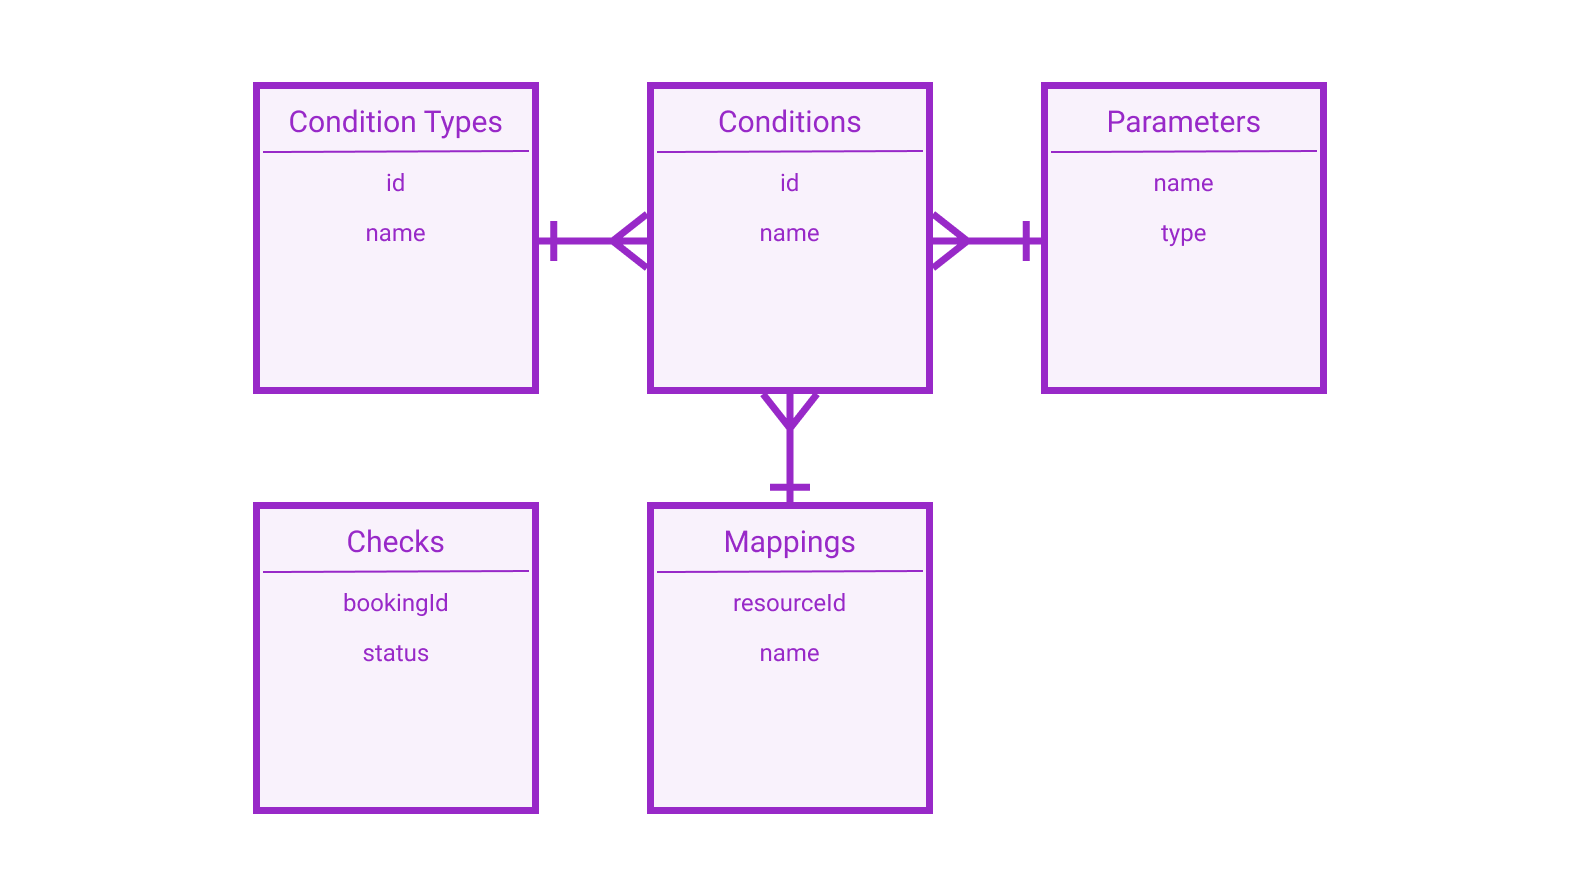
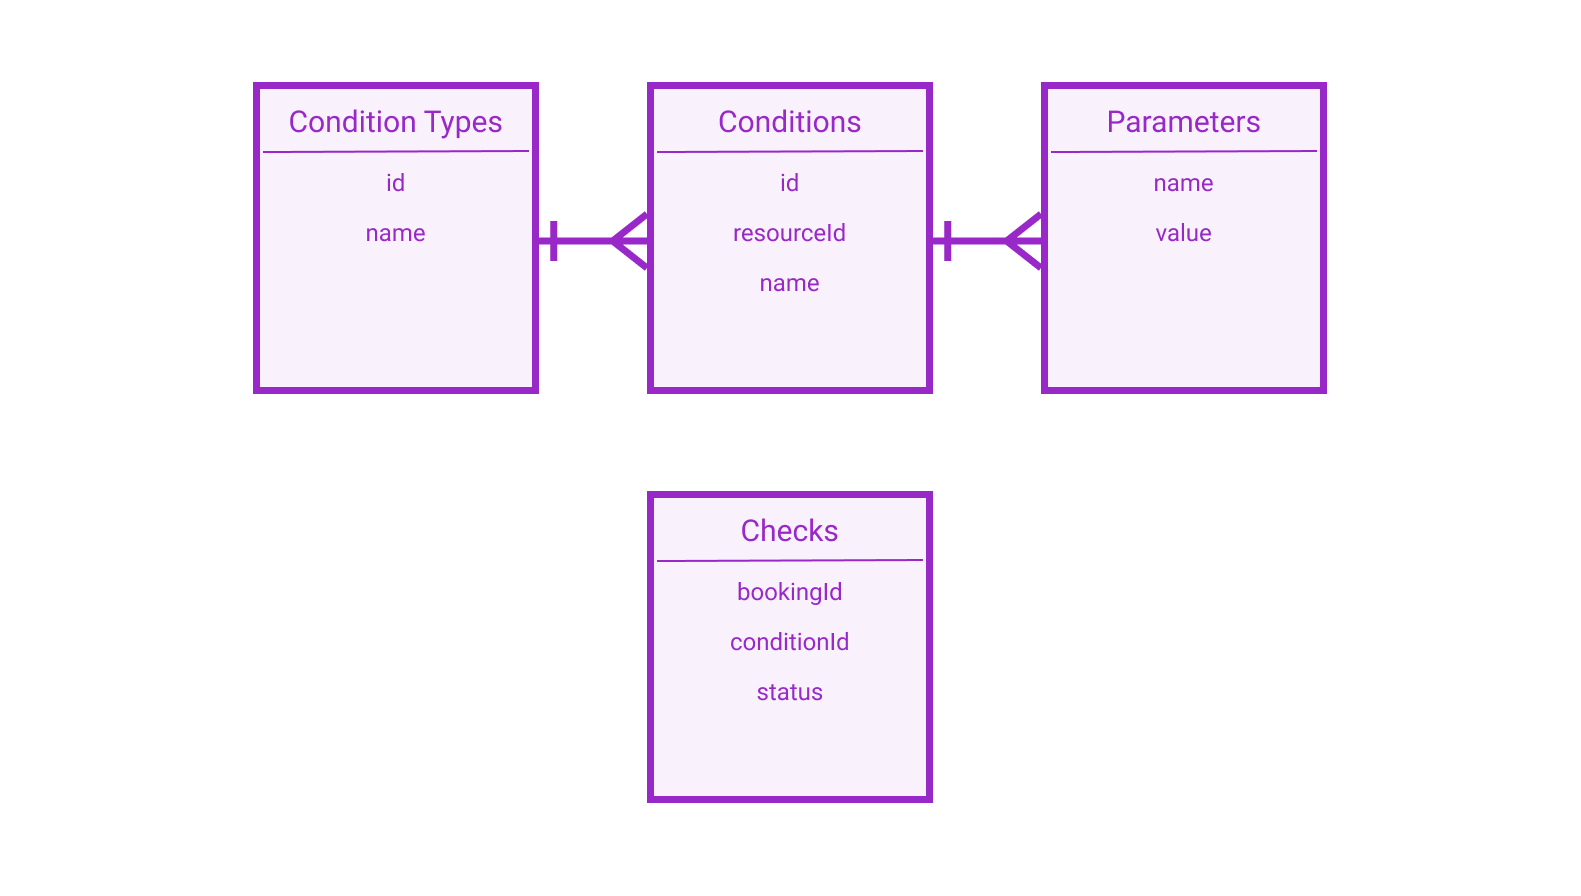
fix wrong data model

diff --git a/docs/datenmodell/README.md b/docs/datenmodell/README.md
@@ -13,8 +13,52 @@ Manche der im Architekturentwurf vorgestellten Komponenten benötigen eine inter
 ## Condition Service
 
 Der Condition Service verfügt über die komplexeste Datenhaltung der Komponenten. Es werden *Conditions* (Bedingungen) verwaltet, die von einem Bedingungstypen sind und über Eingabeparameter verfügen. Eine Bedinung muss einer Ressource zugeordnet werden. Wird aus dem Booking Service eine Buchung für eine Ressource angefragt, wird ein *Check* (Abfrage) im Condition Service erstellt. Diese Abfrage gibt die Parameterwerte an die jeweilen Bedingungen weiter und überprüft den Status. Weitere Informationen über die Conditions finden sie [hier](../ConditionService.md)
+### ERD
 
 ![Datenmodell Condition Service](../assets/datenmodell-conditions-service.png)
+
+### Beispieldaten
+
+**Condition Types (ENUM)**
+
+| name | 
+|--|
+| isRessourceAvailable |
+| isAllowedToBook |
+| isOnTime |
+| maxDuration |
+| hasEnoughtContigent |
+| isApprovedByOwner |
+
+**Parameter**
+
+| condition | name | value | 
+|--|--|--|
+| 2 | allowedRoles | [Student, Prof] |
+| 3 | timeInAdvanceInHours | 24 |
+| 5 | timeInAdvanceInHours | 24 |
+
+**Conditions**
+
+| id | resourceId | conditionTypeId |
+|--|--|--|
+| 1 | THK-GM01-0301 | isRessourceAvailable |
+| 2 | THK-GM01-0301 | isAllowedToBook |
+| 3 | THK-GM01-0301 | isOnTime |
+| 4 | THK-CGN01-0200 | isRessourceAvailable |
+| 5 | THK-CGN01-0200 | isOnTime |
+
+**Checks**
+
+| bookingId | conditionId | status
+|--|--|--|
+| 1 | 1 | met |
+| 1 | 2 | met |
+| 1 | 3 | met |
+| 2 | 4 | met |
+| 2 | 5 | pending |
+
+
 
 ## Booking Service
 
